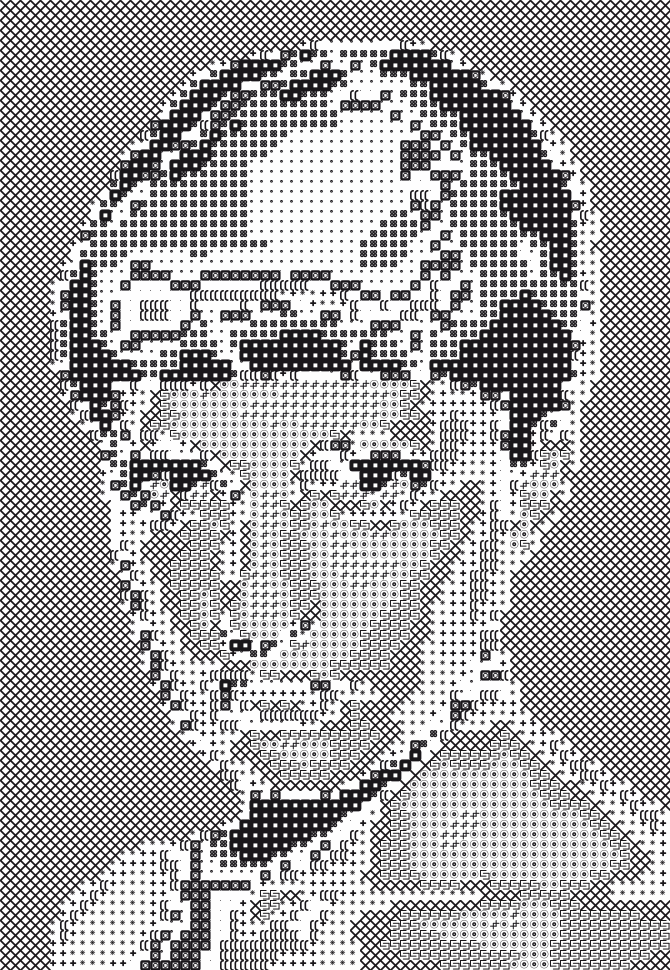
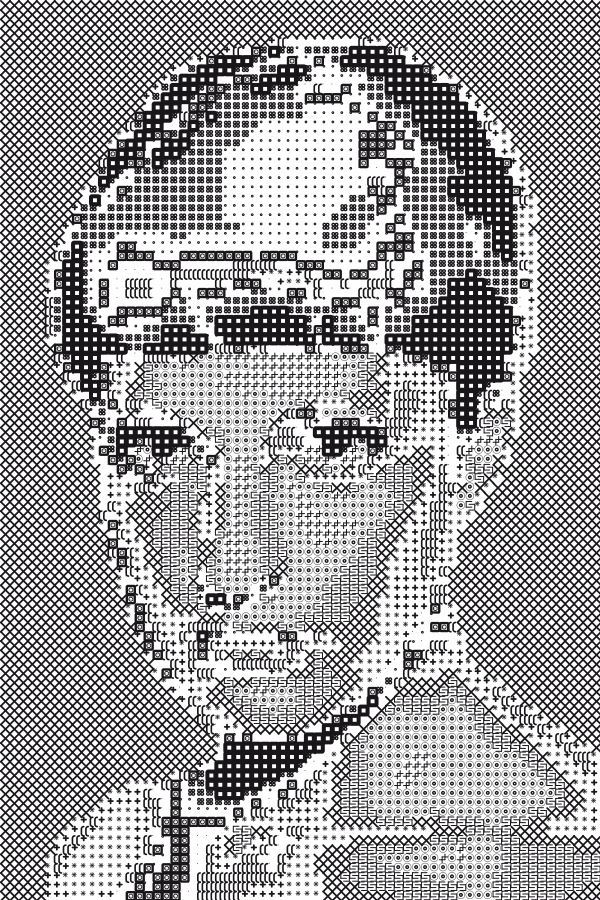
refactored so it doesn't try to draw all the points in one go

diff --git a/patchers/P_4_Hello_Image/P_4_3_1_Graphic_from_image_2/P_4_3_1.js b/patchers/P_4_Hello_Image/P_4_3_1_Graphic_from_image_2/P_4_3_1.js
@@ -9,12 +9,14 @@ var img;
 var datafolder;
 
 var shapes;
+var pointindex = 0;
+var binary = false;
 
 setup();
 
 function setup() {
-	width = 670;
-	height = 970;
+	width = 600;
+	height = 900;
 	// jit.mgraphics
 	mg = new JitterObject("jit.mgraphics", width, height);
 	// the matrix to store and output the frame
@@ -23,41 +25,47 @@ function setup() {
 	pc = new PClone();
 	var pic = prepend_path('pic.png')
 	img = new Image(pic);
-	shapes = loadfiles(prepend_path());
-	post(shapes[1]);
-	var a = [1, 1, 1, 1];
-
+	shapes = load_svg_files(prepend_path());
+	background(1, 1, 1, 1);
 }
 
-function draw() {
-	background(1, 1, 1, 1);
+function drawgraphic() {
 
-	for (x = 0; x < img.size[0]; x++) {
-		for (y = 0; y < img.size[1]; y++) {
-			var tilewidth = width / img.size[0];
-			var tileheight = height / img.size[1];
-			var pos_x = tilewidth * x;
-			var pos_y = tileheight * y;
-			var c = img.getpixel(x, y);
-			// post(c);
-			var grayscale = c[0] * 0.222 + c[1] * 0.707 + c[2] * 0.071;
-			var gradient_to_index = Math.floor(pc.map(grayscale, 0, 1, 1, shapes.length - 2, 1));
-			// post(gradient_to_index+'\n');
-			mg.translate(pos_x, pos_y);
-			mg.scale(0.125, 0.125);
-			mg.svg_render(prepend_path(shapes[gradient_to_index]));
-			mg.identity_matrix();
+	if (pointindex <= img.size[1] - 1) {
+		var currenttime = Math.floor(millis());
+		var drawendtime = Math.floor(millis() + 100);
+		for (y = pointindex; y < img.size[1] && millis() <= drawendtime; y++) {
+			//post(y);
+			for (x = 0; x < img.size[0]; x++) {
+				var tilewidth = width / img.size[0];
+				var tileheight = height / img.size[1];
+				var pos_x = tilewidth * x;
+				var pos_y = tileheight * y;
+				var c = img.getpixel(x, y);
 
+				var grayscale = c[0] * 0.222 + c[1] * 0.707 + c[2] * 0.071;
+				if (binary)
+					grayscale = Math.round(grayscale);
+				
+				var gradient_to_index = Math.round(grayscale * (shapes.length - 1));
+
+				mg.translate(pos_x, pos_y);
+				mg.scale(1 / tilewidth, 1 / tileheight);
+				mg.svg_render(prepend_path(shapes[gradient_to_index]));
+				mg.identity_matrix();
+			}
+			pointindex = y;
 		}
 	}
+	//if (pointindex >= pointcount-1) finished = true;
 	mg.matrixcalc(outputmatrix, outputmatrix);
 	outlet(0, "jit_matrix", outputmatrix.name);
 }
 
-function println() {
-	for (var i = 0; i < arguments.length; i++) {
-		post(arguments[i] + "\n");
-	}
+function msg_int(i) {
+	background(1, 1, 1, 1);
+	binary = i;
+	pointindex = 0;	
 }
 
 function prepend_path(f) {
@@ -79,8 +87,12 @@ function background(r, g, b, a) {
 	mg.matrixcalc(outputmatrix, outputmatrix);
 }
 
-function loadfiles(folder) {
+function millis() {
+	var d = new Date().getTime();
+	return d;
+}
 
+function load_svg_files(folder) {
 
 	var f = new Folder(folder);
 	var files = [];
@@ -88,13 +100,15 @@ function loadfiles(folder) {
 	f.reset();
 	while (!f.end) {
 		var thefile = new File(f.pathname + "/" + f.filename);
-		if (thefile.isopen) {
-			thefile.close();
-		} else {
+		if (thefile.isopen) thefile.close();
+		var filetype = f.filename.split(".")[1];
+
+		// f.filetype returns a string with a space at the end.
+		// "svg "
+		// so you can use f.filetype === "svg " either
+		if (filetype === "svg") {
+			files.push(f.filename);
 		}
-
-		files.push(f.filename);
-
 		f.next();
 	}
 	f.close();
